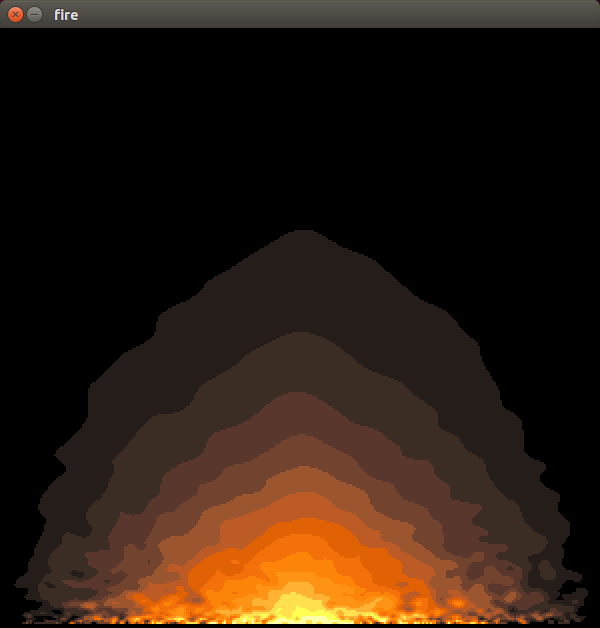
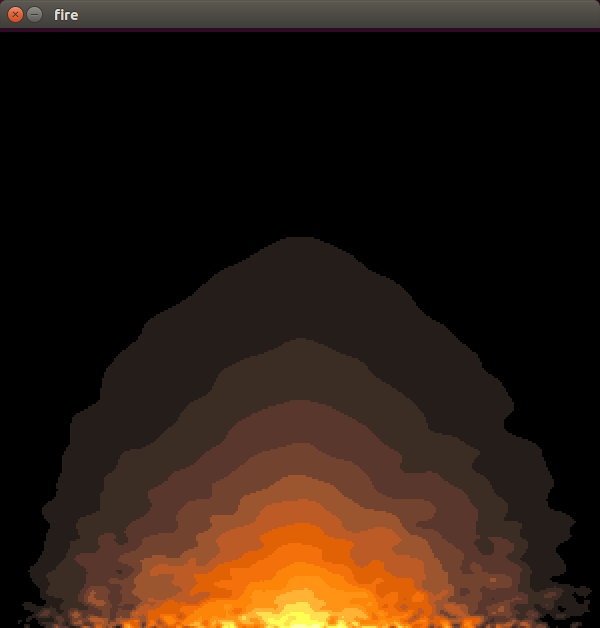
fire appears at bottom of window

diff --git a/fire.go b/fire.go
@@ -14,6 +14,7 @@ import (
 var (
 	fireWidth, fireHeight int = 300, 300
 	firePointSize int = 2
+	fireGenRows int = 2
 	fireDecay float64 = 0.98
 )
 
@@ -211,7 +212,7 @@ func (g *Game) Render() {
 	}
 	defer g.sdlScreenTexture.Destroy()
 
-	g.sdlRenderer.Copy(g.sdlScreenTexture, nil, nil)
+	g.sdlRenderer.Copy(g.sdlScreenTexture, fireRenderOffsetSrc, fireRenderOffsetDst)
 
 	g.sdlRenderer.Present()
 }
@@ -310,6 +311,8 @@ var (
 	fireLimitX = fireWidth - 1
 	fireLimitY = fireHeight - 1
 	fireCenterX = fireWidth / 2
+	fireRenderOffsetSrc = &sdl.Rect{0, 0, int32(winWidth), int32(winHeight - firePointSize * fireGenRows)}
+	fireRenderOffsetDst = &sdl.Rect{0, int32(firePointSize * fireGenRows), int32(winWidth), int32(winHeight)}
 )
 
 var palette = []uint32{
